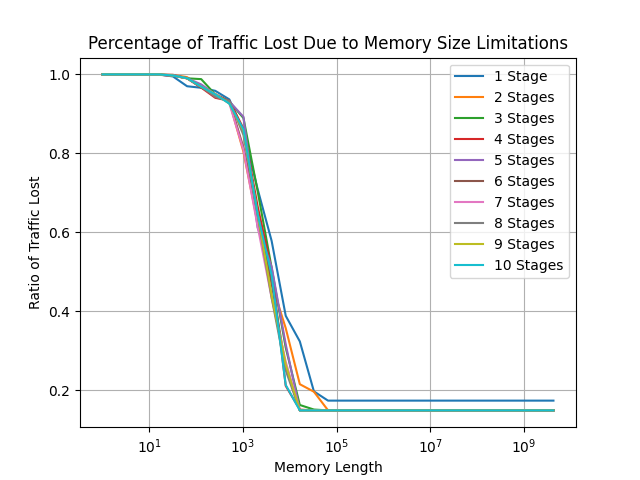
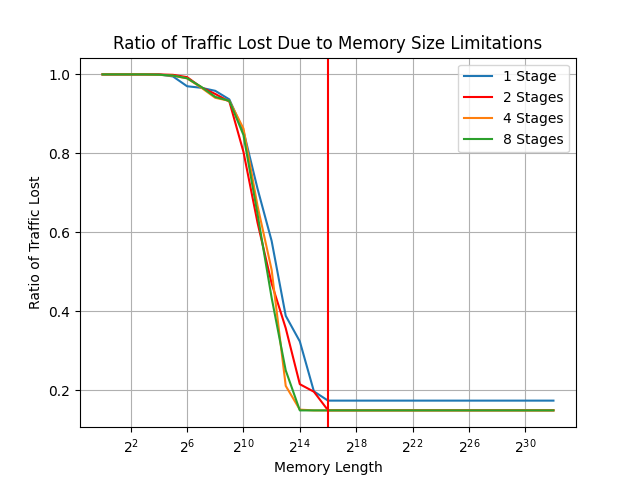
asdf

diff --git a/DNS_Netassay/PaperResults/stages/p4_graphs.py b/DNS_Netassay/PaperResults/stages/p4_graphs.py
@@ -46,38 +46,40 @@ fig, ax = plt.subplots()
 line1, = ax.plot(memoryList, stage_arrs[0])
 line1.set_label('1 Stage')
 
-line2, = ax.plot(memoryList, stage_arrs[1])
+line2, = ax.plot(memoryList, stage_arrs[1], color='red')
 line2.set_label('2 Stages')
 
-line3, = ax.plot(memoryList, stage_arrs[2])
-line3.set_label('3 Stages')
+#line3, = ax.plot(memoryList, stage_arrs[2])
+#line3.set_label('3 Stages')
 
 line4, = ax.plot(memoryList, stage_arrs[3])
 line4.set_label('4 Stages')
 
-line5, = ax.plot(memoryList, stage_arrs[4])
+'''line5, = ax.plot(memoryList, stage_arrs[4])
 line5.set_label('5 Stages')
 
 line6, = ax.plot(memoryList, stage_arrs[5])
 line6.set_label('6 Stages')
 
 line7, = ax.plot(memoryList, stage_arrs[6])
-line7.set_label('7 Stages')
+line7.set_label('7 Stages')'''
 
 line8, = ax.plot(memoryList, stage_arrs[7])
 line8.set_label('8 Stages')
 
-line9, = ax.plot(memoryList, stage_arrs[8])
+'''line9, = ax.plot(memoryList, stage_arrs[8])
 line9.set_label('9 Stages')
 
 line10, = ax.plot(memoryList, stage_arrs[9])
-line10.set_label('10 Stages')
+line10.set_label('10 Stages')'''
+
+plt.axvline(x=65536, color='red')
 
 ax.legend()
 
-ax.set(xlabel='Memory Length', ylabel='Ratio of Traffic Lost', title='Percentage of Traffic Lost Due to Memory Size Limitations')
+ax.set(xlabel='Memory Length', ylabel='Ratio of Traffic Lost', title='Ratio of Traffic Lost Due to Memory Size Limitations')
 ax.grid()
-ax.set_xscale('log')
+ax.set_xscale('log', base=2)
 fig.savefig("dns_parser_limit.png")
 
 plt.show()

diff --git a/DNS_Netassay/PaperResults/total_memory/p4_graphs.py b/DNS_Netassay/PaperResults/total_memory/p4_graphs.py
@@ -34,7 +34,7 @@ count = 0
 for r in rows:
     memoryList.append(2**count)
     values = r.split(',')
-    dns_arr.append(1 - float(values[0]) / dns_60_total)
+    dns_arr.append(1 - (float(values[0]) - float(values[3])) / dns_60_total)
     packets_arr.append(1 - float(values[1]) / packets_60_total)
     bytes_arr.append(1 - float(values[2]) / bytes_60_total)
     count += 1
@@ -43,18 +43,20 @@ for r in rows:
 fig, ax = plt.subplots()
 
 line1, = ax.plot(memoryList, dns_arr)
-line1.set_label('Traffic by DNS Queries')
+line1.set_label('DNS Queries')
 
 line2, = ax.plot(memoryList, packets_arr)
-line2.set_label('Traffic by Packets')
+line2.set_label('Packets')
 
 line3, = ax.plot(memoryList, bytes_arr)
-line3.set_label('Traffic by Bytes')
+line3.set_label('Bytes')
+
+plt.axvline(x=65536, color='red')
 
 ax.legend()
 
-ax.set(xlabel='Memory Length', ylabel='Ratio of Traffic Lost', title='Percentage of Traffic Lost Due to Memory Size Limitations')
-ax.set_xscale('log')
+ax.set(xlabel='Memory Length', ylabel='Ratio of Traffic Lost', title='Ratio of Traffic Lost Due to Memory Size Limitations')
+ax.set_xscale('log', base=2)
 ax.grid()
 fig.savefig("dns_parser_limit.png")
 

diff --git a/DNS_Netassay/PaperResults/timeout/p4_graphs.py b/DNS_Netassay/PaperResults/timeout/p4_graphs.py
@@ -35,20 +35,24 @@ for r in rows:
     values = r.split(',')
     packets_arr.append(1 - float(values[1]) / packets_60_total)
     bytes_arr.append(1 - float(values[2]) / bytes_60_total)
-    count += 10
+    # count += 10 change for real
+    count += 1
 
 
 fig, ax = plt.subplots()
 
-line2, = ax.plot(timeoutList, packets_arr)
-line2.set_label('Traffic by Packets')
-
 line3, = ax.plot(timeoutList, bytes_arr)
-line3.set_label('Traffic by Bytes')
+line3.set_label('Bytes')
+
+line2, = ax.plot(timeoutList, packets_arr)
+line2.set_label('Packets')
+
+plt.axvline(x=3, color='red')
 
 ax.legend()
 
-ax.set(xlabel='Timemout (s)', ylabel='Ratio of Traffic Lost', title='Percentage of Traffic Lost Due to Timeout Limitation')
+
+ax.set(xlabel='Timemout (s)', ylabel='Ratio of Traffic Lost', title='Ratio of Traffic Lost Due to Timeout Limitation')
 ax.grid()
 fig.savefig("timeout_limit.png")
 

diff --git a/DNS_Netassay/PaperResults/stages/stage_limits.py b/DNS_Netassay/PaperResults/stages/stage_limits.py
@@ -378,11 +378,17 @@ if __name__ == '__main__':
             total_dns = 0
             total_packets = 0
             total_bytes = 0
+            total_dns_missed = 0
+            total_est_packets = 0
+            total_est_bytes = 0
             for l in knownlistDict.items():
                 total_dns += l[1][0]
                 total_packets += l[1][1]
                 total_bytes += l[1][2]
-            outfile.write(str(total_dns)+','+str(total_packets)+','+str(total_bytes)+'\n')
+                total_dns_missed += l[1][3]
+                total_est_packets += l[1][4]
+                total_est_bytes += l[1][5]
+            outfile.write(str(total_dns)+','+str(total_packets)+','+str(total_bytes)+','+str(total_dns_missed)+','+str(total_est_packets)+','+str(total_est_bytes)+'\n')
         outfile.write('*')
 
     outfile.close()

diff --git a/DNS_Netassay/PaperResults/total_memory/memory_limits.py b/DNS_Netassay/PaperResults/total_memory/memory_limits.py
@@ -216,11 +216,17 @@ if __name__ == '__main__':
         total_dns = 0
         total_packets = 0
         total_bytes = 0
+        total_dns_missed = 0
+        total_est_packets = 0
+        total_est_bytes = 0
         for i in knownlistDict.items():
             total_dns += i[1][0]
             total_packets += i[1][1]
             total_bytes += i[1][2]
-        outfile.write(str(total_dns)+','+str(total_packets)+','+str(total_bytes)+'\n')
+            total_dns_missed += i[1][3]
+            total_est_packets += i[1][4]
+            total_est_bytes += i[1][5]
+        outfile.write(str(total_dns)+','+str(total_packets)+','+str(total_bytes)+','+str(total_dns_missed)+','+str(total_est_packets)+','+str(total_est_bytes)+'\n')
 
     outfile.close()
 
